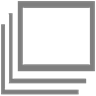
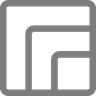
Implemented screen size toggling for landscape.

diff --git a/core/src/main/java/emu/joric/MachineScreen.java b/core/src/main/java/emu/joric/MachineScreen.java
@@ -85,9 +85,7 @@ public class MachineScreen implements Screen {
     private Map<MachineType, Texture[]> machineTypeTextures;
 
     // UI components.
-    private Texture screenIcon;
-    private Texture blurIcon;
-    private Texture unblurIcon;
+    private Texture screenSizeIcon;
     private Texture playIcon;
     private Texture pauseIcon;
     private Texture muteIcon;
@@ -149,11 +147,9 @@ public class MachineScreen implements Screen {
 
         createScreenResourcesForMachineType(MachineType.PAL);
 
-        screenIcon = new Texture("png/screen_icon.png");
+        screenSizeIcon = new Texture("png/screen_icon.png");
         playIcon = new Texture("png/play.png");
         pauseIcon = new Texture("png/pause.png");
-        blurIcon = new Texture("png/blur.png");
-        unblurIcon = new Texture("png/unblur.png");
         muteIcon = new Texture("png/mute_icon.png");
         unmuteIcon = new Texture("png/unmute_icon.png");
         keyboardIcon = new Texture("png/keyboard_icon.png");
@@ -351,15 +347,13 @@ public class MachineScreen implements Screen {
         machineInputProcessor.setCameraXOffset(cameraXOffset);
         // TODO: Adjust this to account for different sizes.
         if (viewportManager.isPortrait()) {
+            // Portrait will always fit screen, as it is assumed to be mobile.
             viewport.setMinWorldWidth((machineType.getVisibleScreenHeight() / 4) * 5);
             viewport.setMinWorldHeight(machineType.getVisibleScreenHeight());
         } else {
-            // TODO: Adjust based on zoom factor
-            viewport.setMinWorldWidth(1920/2);
-            viewport.setMinWorldHeight(1080/2);
-            
-            //viewport.setMinWorldWidth(((machineType.getVisibleScreenHeight() / 4) * 5) * 2);
-            //viewport.setMinWorldHeight(machineType.getVisibleScreenHeight() * 2);
+            // Landscape depends on current screen size.
+            viewport.setMinWorldWidth(machineInputProcessor.getScreenSize().getMinWorldWidth());
+            viewport.setMinWorldHeight(machineInputProcessor.getScreenSize().getMinWorldHeight());
         }
         camera.position.set((ADJUSTED_WIDTH / 2) + cameraXOffset, (ADJUSTED_HEIGHT / 2) - cameraYOffset, 0.0f);
         camera.update();
@@ -398,13 +392,12 @@ public class MachineScreen implements Screen {
         
         // Some icons change depending on state.
         Texture speakerIcon = machineInputProcessor.isSpeakerOn()? muteIcon : unmuteIcon;
-        Texture blurUnblurIcon = machineInputProcessor.isBlurOn()? unblurIcon : blurIcon;
         Texture pausePlayIcon = joricRunner.isPaused()? playIcon : pauseIcon;
         
         if (viewportManager.isPortrait()) {
             // Portrait
             batch.draw(fullScreenIcon, 20, 20);
-            batch.draw(blurUnblurIcon, (viewportManager.getWidth() / 6) - 16, 20);
+            batch.draw(screenSizeIcon, (viewportManager.getWidth() / 6) - 16, 20);
             batch.draw(speakerIcon, (viewportManager.getWidth() / 3) - 32, 20);
             batch.draw(pausePlayIcon, (viewportManager.getWidth() / 2) - 48, 20);
             batch.draw(keyboardIcon, (viewportManager.getWidth() - (viewportManager.getWidth() / 3)) - 64, 20);
@@ -418,7 +411,7 @@ public class MachineScreen implements Screen {
                     // The area between full landscape and full portrait.
                     float leftAdjustment = (viewportManager.getWidth() / 4) - 48;
                     batch.draw(fullScreenIcon, ((viewportManager.getWidth() - ((viewportManager.getWidth() * 6 ) / 12)) - 96) - leftAdjustment, 16);
-                    batch.draw(blurUnblurIcon, ((viewportManager.getWidth() - ((viewportManager.getWidth() * 5 ) / 12)) - 96) - leftAdjustment, 16);
+                    batch.draw(screenSizeIcon, ((viewportManager.getWidth() - ((viewportManager.getWidth() * 5 ) / 12)) - 96) - leftAdjustment, 16);
                     batch.draw(speakerIcon,    ((viewportManager.getWidth() - ((viewportManager.getWidth() * 4 ) / 12)) - 96) - leftAdjustment, 16);
                     batch.draw(pausePlayIcon,  ((viewportManager.getWidth() - ((viewportManager.getWidth() * 3 ) / 12)) - 96) - leftAdjustment, 16);
                     batch.draw(keyboardIcon,   ((viewportManager.getWidth() - ((viewportManager.getWidth() * 2 ) / 12)) - 96) - leftAdjustment, 16);
@@ -431,14 +424,14 @@ public class MachineScreen implements Screen {
                     // Free slot.
                     batch.draw(keyboardIcon,  16, 0);
                     batch.draw(fullScreenIcon, viewportManager.getWidth() - 112, viewportManager.getHeight() - 112);
-                    batch.draw(blurUnblurIcon, viewportManager.getWidth() - 112, (viewportManager.getHeight() - (viewportManager.getHeight() / 3)) - 64);
+                    batch.draw(screenSizeIcon, viewportManager.getWidth() - 112, (viewportManager.getHeight() - (viewportManager.getHeight() / 3)) - 64);
                     batch.draw(nmiIcon,        viewportManager.getWidth() - 112, (viewportManager.getHeight() / 3) - 32);
                     batch.draw(backIcon,       viewportManager.getWidth() - 112, 16);
                 }
             } else if (cameraXOffset < 0) {
                 // Left
                 batch.draw(fullScreenIcon, 16, (viewportManager.getHeight() - 112));
-                batch.draw(blurUnblurIcon, 16, (viewportManager.getHeight() - (viewportManager.getHeight() / 6)) - 80);
+                batch.draw(screenSizeIcon, 16, (viewportManager.getHeight() - (viewportManager.getHeight() / 6)) - 80);
                 batch.draw(speakerIcon,    16, (viewportManager.getHeight() - (viewportManager.getHeight() / 3)) - 64);
                 batch.draw(pausePlayIcon,  16, (viewportManager.getHeight() / 2) - 48);
                 batch.draw(keyboardIcon,   16, (viewportManager.getHeight() / 3) - 32);
@@ -447,7 +440,7 @@ public class MachineScreen implements Screen {
             } else if (cameraXOffset > 0) {
                 // Right
                 batch.draw(fullScreenIcon, viewportManager.getWidth() - 112, (viewportManager.getHeight() - 112));
-                batch.draw(blurUnblurIcon, viewportManager.getWidth() - 112, (viewportManager.getHeight() - (viewportManager.getHeight() / 6)) - 80);
+                batch.draw(screenSizeIcon, viewportManager.getWidth() - 112, (viewportManager.getHeight() - (viewportManager.getHeight() / 6)) - 80);
                 batch.draw(speakerIcon,    viewportManager.getWidth() - 112, (viewportManager.getHeight() - (viewportManager.getHeight() / 3)) - 64);
                 batch.draw(pausePlayIcon,  viewportManager.getWidth() - 112, (viewportManager.getHeight() / 2) - 48);
                 batch.draw(keyboardIcon,   viewportManager.getWidth() - 112, (viewportManager.getHeight() / 3) - 32);
@@ -615,10 +608,8 @@ public class MachineScreen implements Screen {
         unmuteIcon.dispose();
         playIcon.dispose();
         pauseIcon.dispose();
-        blurIcon.dispose();
-        unblurIcon.dispose();
         nmiIcon.dispose();
-        screenIcon.dispose();
+        screenSizeIcon.dispose();
         batch.dispose();
         joricRunner.stop();
         disposeScreens();
@@ -661,6 +652,10 @@ public class MachineScreen implements Screen {
 
     public MachineInputProcessor getMachineInputProcessor() {
         return machineInputProcessor;
+    }
+    
+    public ExtendViewport getViewport() {
+        return viewport;
     }
     
     /**

diff --git a/core/src/main/java/emu/joric/ui/MachineInputProcessor.java b/core/src/main/java/emu/joric/ui/MachineInputProcessor.java
@@ -35,14 +35,14 @@ public class MachineInputProcessor extends InputAdapter {
     private JoystickAlignment joystickAlignment = JoystickAlignment.OFF;
     
     /**
+     * The current screen size.
+     */
+    private ScreenSize screenSize = ScreenSize.FIT;
+    
+    /**
      * Whether or not the speaker is currently active, i.e. sound is on.
      */
     private boolean speakerOn;
-    
-    /**
-     * Whether or not the screen is slightly blurred (linear vs nearest).
-     */
-    private boolean blurOn;
     
     /**
      * The current offset from centre of the camera in the X direction.
@@ -187,7 +187,7 @@ public class MachineInputProcessor extends InputAdapter {
             boolean backArrowClicked = false;
             boolean fullScreenClicked = false;
             boolean speakerClicked = false;
-            boolean blurUnblurClicked = false;
+            boolean screenSizeClicked = false;
             boolean pausePlayClicked = false;
             boolean nmiClicked = false;
 
@@ -206,7 +206,7 @@ public class MachineInputProcessor extends InputAdapter {
                         float fiveSixths = (viewportManager.getWidth() - (viewportManager.getWidth() / 6));
                         
                         if ((touchXY.x > (sixthPos - 26)) && (touchXY.x < (sixthPos + 100))) {
-                            blurUnblurClicked = true;
+                            screenSizeClicked = true;
                         }
                         else if ((touchXY.x > (thirdPos - 42)) && (touchXY.x < (thirdPos + 84))) {
                             speakerClicked = true;
@@ -236,7 +236,7 @@ public class MachineInputProcessor extends InputAdapter {
                             else
                             if ((touchXY.x >= ((viewportManager.getWidth() - ((viewportManager.getWidth() * 5 ) / 12)) - 96) - leftAdjustment) && 
                                 (touchXY.x <= ((viewportManager.getWidth() - ((viewportManager.getWidth() * 5 ) / 12)) - 0) - leftAdjustment)) {
-                                blurUnblurClicked = true;
+                                screenSizeClicked = true;
                             } 
                             else 
                             if ((touchXY.x >= ((viewportManager.getWidth() - ((viewportManager.getWidth() * 4 ) / 12)) - 96) - leftAdjustment) && 
@@ -281,7 +281,7 @@ public class MachineInputProcessor extends InputAdapter {
                         } else if ((touchXY.y > (viewportManager.getHeight() - (viewportManager.getHeight() / 3)) - 74) &&
                                    (touchXY.y < (viewportManager.getHeight() - (viewportManager.getHeight() / 3)) + 42)) {
                             if (touchXY.x > (viewportManager.getWidth() - 112)) {
-                                blurUnblurClicked = true;
+                                screenSizeClicked = true;
                             } else if (touchXY.x < 112) {
                                 pausePlayClicked = true;
                             }
@@ -324,7 +324,7 @@ public class MachineInputProcessor extends InputAdapter {
                                 speakerClicked = true;
                             }
                             else if ((touchXY.y > (fiveSixths - 100)) && (touchXY.y < (fiveSixths + 26))) {
-                                blurUnblurClicked = true;
+                                screenSizeClicked = true;
                             }
                         }
                     }
@@ -361,9 +361,14 @@ public class MachineInputProcessor extends InputAdapter {
                 machineScreen.getJoricRunner().changeSound(speakerOn);
             }
             
-            if (blurUnblurClicked) {
-                blurOn = !blurOn;
-                machineScreen.changeBlur(blurOn);
+            if (screenSizeClicked) {
+                screenSize = screenSize.rotateValue();
+                // Dummy resize, so that the new Oric screen size is updated.
+                Gdx.app.postRunnable(new Runnable() {
+                    public void run() {
+                        machineScreen.resize(Gdx.graphics.getWidth(), Gdx.graphics.getHeight());
+                    }
+                });
             }
             
             if (pausePlayClicked) {
@@ -574,24 +579,52 @@ public class MachineInputProcessor extends InputAdapter {
         this.speakerOn = speakerOn;
     }
 
+    public static enum ScreenSize {
+        
+        X1(1920, 1080), 
+        X2(960, 540), 
+        X3(480, 270), 
+        FIT(280, 224);
+        
+        int minWorldWidth;
+        int minWorldHeight;
+        
+        ScreenSize(int minWorldWidth, int minWorldHeight) {
+            this.minWorldWidth = minWorldWidth;
+            this.minWorldHeight = minWorldHeight;
+        }
+        
+        ScreenSize rotateValue() {
+            return values()[(ordinal() + 1) % 4];
+        }
+        
+        public int getMinWorldWidth() {
+            return minWorldWidth;
+        }
+        
+        public int getMinWorldHeight() {
+            return minWorldHeight;
+        }
+    }
+    
     /**
-     * Returns whether the blur screen mode is on or not.
+     * Gets the current screen size.
      * 
      * @return
      */
-    public boolean isBlurOn() {
-        return blurOn;
+    public ScreenSize getScreenSize() {
+        return screenSize;
     }
-    
+
     /**
-     * Sets whether the blur screen mode is on or not.
+     * Sets the screen size.
      * 
-     * @param blurOn
+     * @param screenSize
      */
-    public void setBlurOn(boolean blurOn) {
-        this.blurOn = blurOn;
+    public void setScreenSize(ScreenSize screenSize) {
+        this.screenSize = screenSize;
     }
-    
+
     /**
      * Sets the current offset from centre of the camera in the X direction.
      * 
